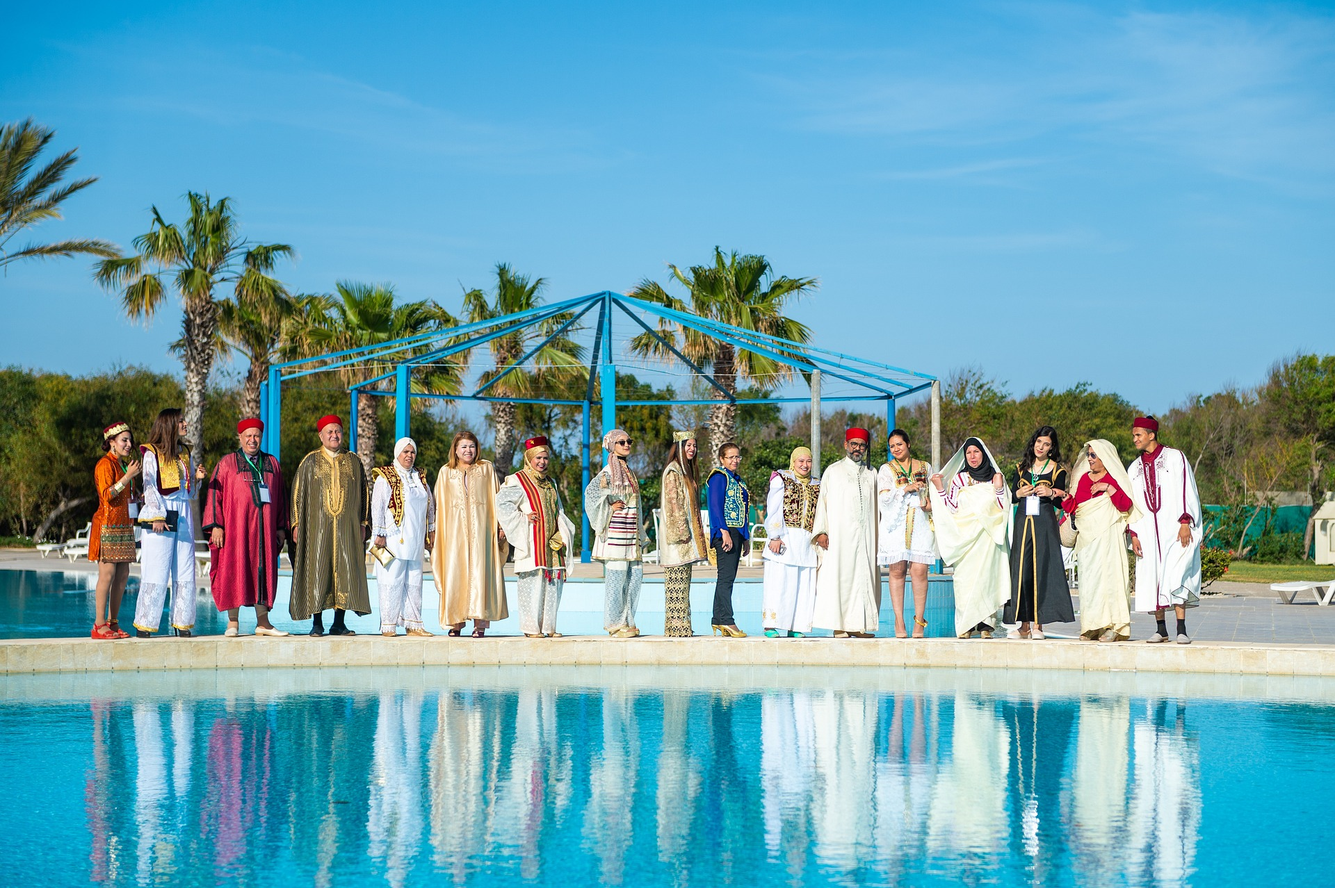
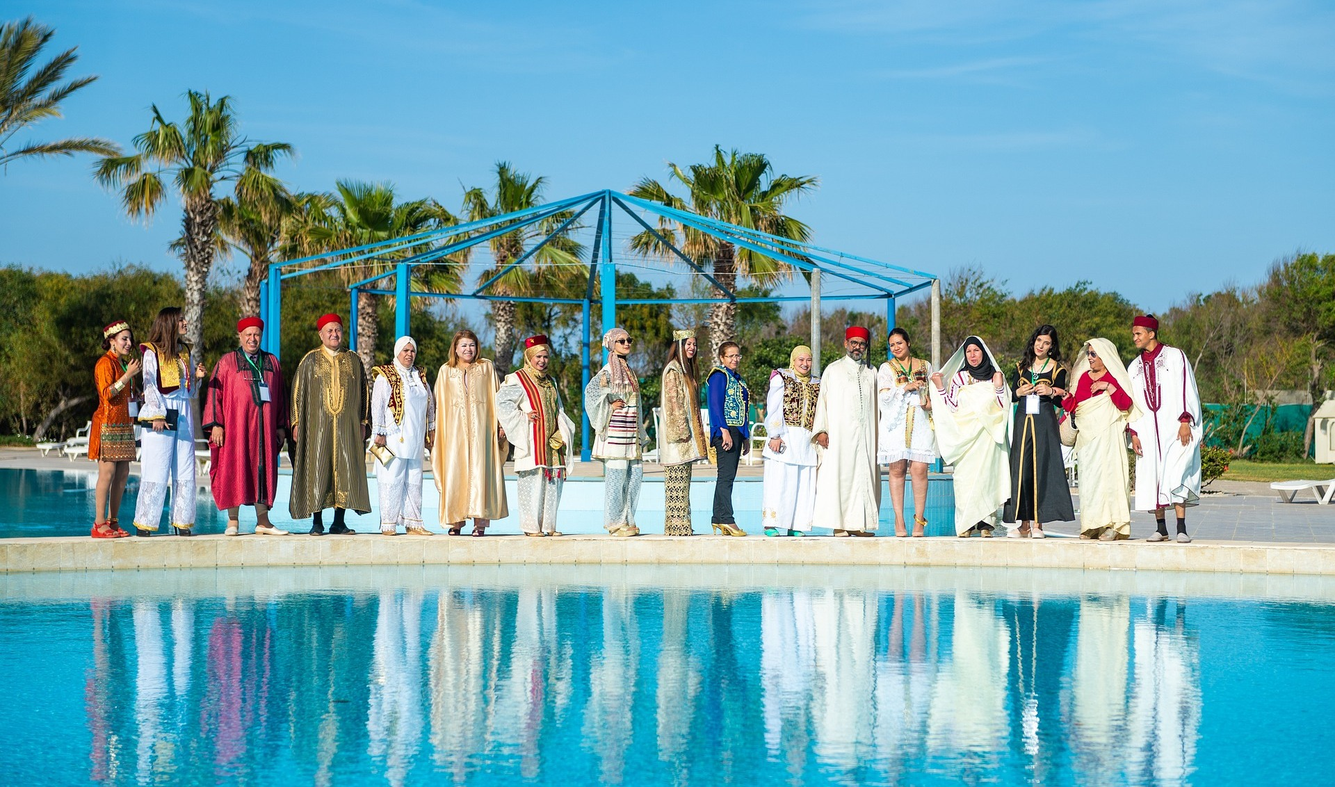
Update images

diff --git a/index.md b/index.md
@@ -1,8 +1,8 @@
 ---
 layout: home
 title: Agility with Microservices Programming 2024
-feature_image: "image21.jpg"
-image_source: "<a href=\"https://pixabay.com/users/violetta-37547/" target=\"_blank\">Viola &#x27;</a>"
+feature_image: "image25.jpg"
+image_source: "<a href=\"https://pixabay.com/users/anis1969-6452442\" target=\"_blank\">Barcha</a>"
 ---
 
 <ul class="nav nav-tabs nav-justified">
